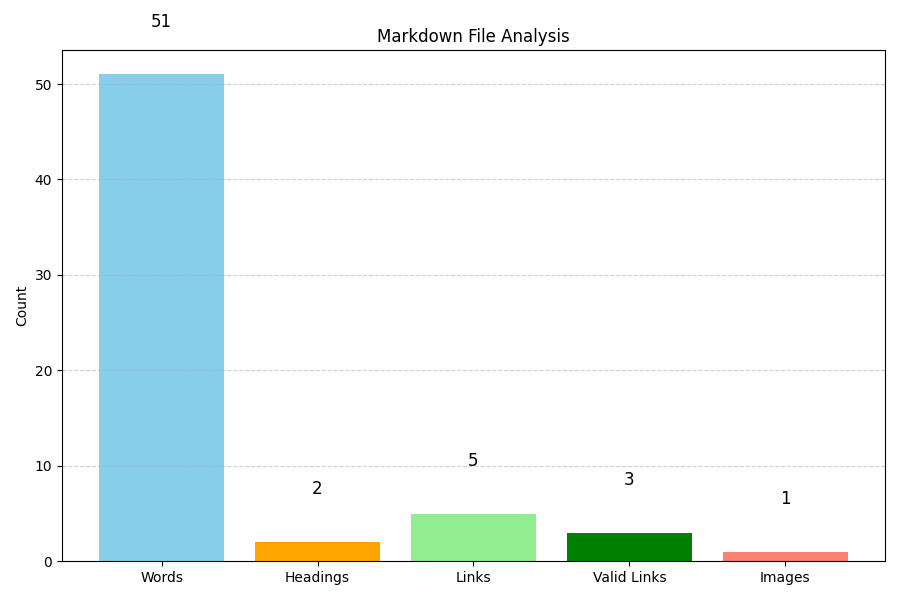
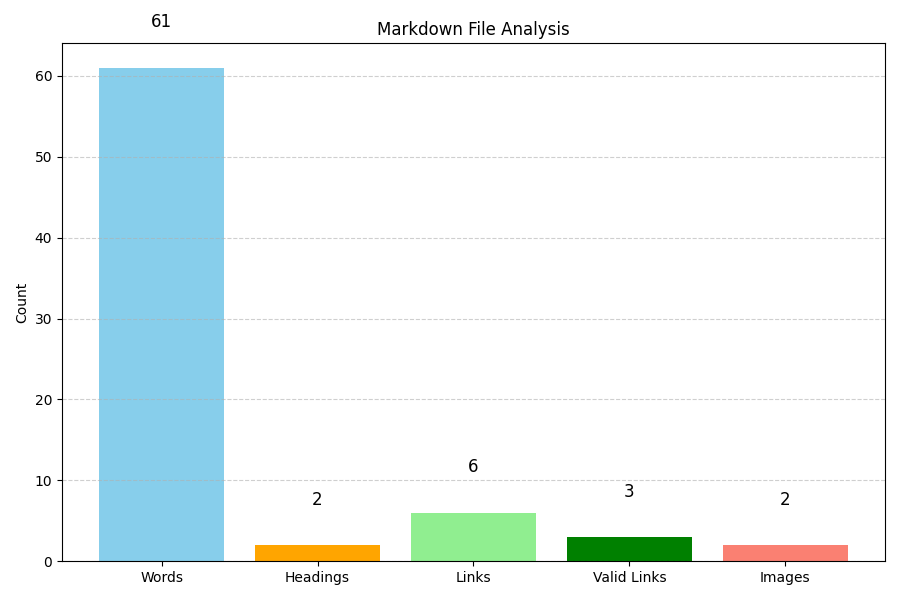
generate_features

diff --git a/report.html b/report.html
@@ -1,0 +1,28 @@
+
+    <html>
+    <head>
+        <title>Markdown Analysis Report</title>
+        <style>
+            body { font-family: Arial, sans-serif; margin: 40px; }
+            h1 { color: #333; }
+            table { border-collapse: collapse; width: 50%; }
+            th, td { border: 1px solid #ccc; padding: 8px; text-align: left; }
+            th { background-color: #f2f2f2; }
+            img { margin-top: 20px; max-width: 600px; }
+        </style>
+    </head>
+    <body>
+        <h1>Markdown Analysis Report</h1>
+        <table>
+            <tr><th>Metric</th><th>Value</th></tr>
+            <tr><td>Total Words</td><td>61</td></tr>
+            <tr><td>Headings</td><td>2</td></tr>
+            <tr><td>Links Found</td><td>6</td></tr>
+            <tr><td>Valid Links</td><td>3</td></tr>
+            <tr><td>Broken Links</td><td>3</td></tr>
+            <tr><td>Images</td><td>2</td></tr>
+        </table>
+        <img src="chart.png" alt="Markdown Analysis Chart">
+    </body>
+    </html>
+    

diff --git a/html_report_generate.py b/html_report_generate.py
@@ -1,0 +1,67 @@
+import os
+import matplotlib.pyplot as plt
+from sample import analyze_markdown
+
+def generate_chart(report, output_path='chart.png'):
+    labels = ["Words", "Headings", "Links", "Valid Links", "Images"]
+    values = [
+        report["Total Words"],
+        report["Headings"],
+        report["Links Found"],
+        report["Valid Links"],
+        report["Images"]
+    ]
+
+    plt.figure(figsize=(9, 6))
+    bars = plt.bar(labels, values, color=['skyblue', 'orange', 'lightgreen', 'green', 'salmon'])
+    for bar in bars:
+        yval = bar.get_height()
+        plt.text(bar.get_x() + bar.get_width() / 2, yval + 5, int(yval), ha='center')
+    
+    plt.title("Markdown Analysis")
+    plt.ylabel("Count")
+    plt.grid(axis='y', linestyle='--', alpha=0.7)
+    plt.tight_layout()
+    plt.savefig(output_path)
+    plt.close()
+
+def generate_html_report(report, chart_path='chart.png', output_file='report.html'):
+    html_content = f"""
+    <html>
+    <head>
+        <title>Markdown Analysis Report</title>
+        <style>
+            body {{ font-family: Arial, sans-serif; margin: 40px; }}
+            h1 {{ color: #333; }}
+            table {{ border-collapse: collapse; width: 50%; }}
+            th, td {{ border: 1px solid #ccc; padding: 8px; text-align: left; }}
+            th {{ background-color: #f2f2f2; }}
+            img {{ margin-top: 20px; max-width: 600px; }}
+        </style>
+    </head>
+    <body>
+        <h1>Markdown Analysis Report</h1>
+        <table>
+            <tr><th>Metric</th><th>Value</th></tr>
+            <tr><td>Total Words</td><td>{report["Total Words"]}</td></tr>
+            <tr><td>Headings</td><td>{report["Headings"]}</td></tr>
+            <tr><td>Links Found</td><td>{report["Links Found"]}</td></tr>
+            <tr><td>Valid Links</td><td>{report["Valid Links"]}</td></tr>
+            <tr><td>Broken Links</td><td>{len(report["Broken Links"])}</td></tr>
+            <tr><td>Images</td><td>{report["Images"]}</td></tr>
+        </table>
+        <img src="{chart_path}" alt="Markdown Analysis Chart">
+    </body>
+    </html>
+    """
+
+    with open(output_file, "w", encoding="utf-8") as f:
+        f.write(html_content)
+    print(f"✅ HTML report saved as {output_file}")
+
+if __name__ == "__main__":
+    file_path = r'C:\Users\diyac\OneDrive\Desktop\internship\python_intern\sample.md'
+    report = analyze_markdown(file_path)
+    if report:
+        generate_chart(report)
+        generate_html_report(report)

diff --git a/sample.md b/sample.md
@@ -1,6 +1,9 @@
 hello
 today is Tuesday.its very hot today.
+<!-- C:\Users\diyac\OneDrive\Desktop\internship\python_intern\image.jpg -->
 C:\Users\diyac\OneDrive\Desktop\internship\python_intern\image.jpg
+C:\Users\diyac\OneDrive\Desktop\internship\python_intern\image2.
+![alt text](<WhatsApp Image 2025-03-17 at 09.24.50_8914a6a5.jpg>)
 
 # Sample Markdown
 
